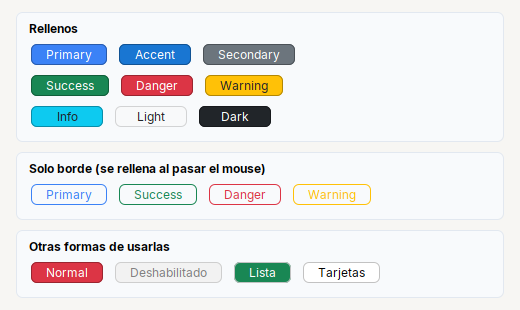
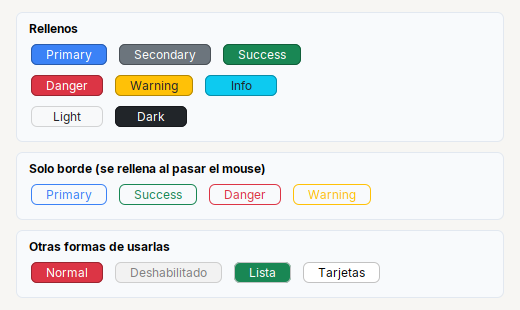
init

Changed region(s): [[0.0615, 0.1161, 0.5846, 0.4355]]

diff --git a/src/main/java/tessera/theme/Variant.java b/src/main/java/tessera/theme/Variant.java
@@ -15,14 +15,12 @@ import tessera.kit.Kit;
  * Theme.builder().variant(Variant.SUCCESS, "#2E7D32").install();    // cambiar un color para toda la app
  * </pre>
  *
- * {@link #PRIMARY} y {@link #ACCENT} siguen al tema ({@code Kit.PRIMARY} y {@code Theme.accent()}); el resto trae su color (el de Bootstrap) y se cambia con {@link #setColor(Color)}.
+ * {@link #PRIMARY} sigue al tema ({@code Kit.PRIMARY}); el resto trae su color (el de Bootstrap) y se cambia con {@link #setColor(Color)}.
  */
 public enum Variant {
 
   /** La accion principal (el {@code Kit.PRIMARY} del tema). */
   PRIMARY(null),
-  /** El color de acento del tema. */
-  ACCENT(null),
   /** Accion o texto de segundo plano: gris. */
   SECONDARY(Color.decode("#6C757D")),
   /** Todo salio bien: verde. */
@@ -61,8 +59,6 @@ public enum Variant {
     switch (this) {
       case PRIMARY:
         return Kit.PRIMARY;
-      case ACCENT:
-        return Theme.accent();
       default:
         return defaultColor;
     }

diff --git a/src/demo/java/tessera/demo/Showcase.java b/src/demo/java/tessera/demo/Showcase.java
@@ -155,7 +155,7 @@ public final class Showcase {
     return Scroll.of(Col.gap(10).padding(8, 0, 12, 0).children(
         Card.section("Botones y selectores").children(
             Row.gap(10).children(Button.of("Normal"), Button.primary("Principal"), Toggle.of("Lista"), Toggle.of("Tarjetas")),
-            Row.gap(8).children(Button.secondary("Secondary"), Button.accent("Accent"), Button.success("Success"), Button.danger("Danger"),
+            Row.gap(8).children(Button.secondary("Secondary"), Button.success("Success"), Button.danger("Danger"),
                 Button.warning("Warning"), Button.info("Info"), Button.light("Light"), Button.dark("Dark"), Button.outline(Variant.DANGER, "Outline")),
             Row.gap(18).children(Check.of("Casilla").selected(true), Switch.of("Interruptor").selected(true), Switch.of("Apagado")),
             Row.gap(10).children(Label.text("Elige una"), method, Label.text("Marca varias"), unzip,

diff --git a/src/demo/java/tessera/demo/WidgetExamples.java b/src/demo/java/tessera/demo/WidgetExamples.java
@@ -122,9 +122,9 @@ public final class WidgetExamples {
   private static JComponent buttonVariants() {
     // ejemplo:button-variants
     final Card solid = Card.section("Rellenos").children(
-        Row.gap(8).children(Button.primary("Primary"), Button.accent("Accent"), Button.secondary("Secondary")),
-        Row.gap(8).children(Button.success("Success"), Button.danger("Danger"), Button.warning("Warning")),
-        Row.gap(8).children(Button.info("Info"), Button.light("Light"), Button.dark("Dark")));
+        Row.gap(8).children(Button.primary("Primary"), Button.secondary("Secondary"), Button.success("Success")),
+        Row.gap(8).children(Button.danger("Danger"), Button.warning("Warning"), Button.info("Info")),
+        Row.gap(8).children(Button.light("Light"), Button.dark("Dark")));
 
     final Card outline = Card.section("Solo borde (se rellena al pasar el mouse)").children(
         Row.gap(8).children(

diff --git a/src/main/java/tessera/kit/Label.java b/src/main/java/tessera/kit/Label.java
@@ -19,7 +19,7 @@ import tessera.theme.Variant;
  * Label.text("Administra tus clientes").color(Kit.MUTED)
  * Label.field("Nombre:").tip("El nombre del cliente")
  * Label.text("Ayuda").icon("app/img/help_blue.svg", 16).onClick(this::openHelp)
- * Label.success("Guardado")        // tambien danger, warning, info, secondary, primary, accent, light, dark
+ * Label.success("Guardado")        // tambien danger, warning, info, secondary, primary, light, dark
  * Label.text("Quedan 2 dias").variant(Variant.WARNING)
  * </pre>
  */
@@ -56,10 +56,6 @@ public class Label extends JLabel implements Styled<Label> {
 
   public static Label primary(String text) {
     return of(Variant.PRIMARY, text);
-  }
-
-  public static Label accent(String text) {
-    return of(Variant.ACCENT, text);
   }
 
   public static Label secondary(String text) {

diff --git a/src/main/java/tessera/kit/Button.java b/src/main/java/tessera/kit/Button.java
@@ -46,11 +46,6 @@ public class Button extends JButton implements Clickable<Button> {
     return of(Variant.SECONDARY, text);
   }
 
-  /** Boton con el color de acento del tema. */
-  public static Button accent(String text) {
-    return of(Variant.ACCENT, text);
-  }
-
   /** Boton de confirmacion (verde). */
   public static Button success(String text) {
     return of(Variant.SUCCESS, text);

diff --git a/AGENTS.md b/AGENTS.md
@@ -24,7 +24,7 @@ tessera.components  modelos/renderers/bordes/validacion sueltos
 Theme.builder().accent("#1976D2").primary("#1976D2").panelBackground("#F7F6F3")
      .surface("#FFFFFF").cardLine("#E4E1D9").arc(12).install();
 ```
-**Variantes de color** (`tessera.theme.Variant`: `PRIMARY ACCENT SECONDARY SUCCESS DANGER WARNING INFO LIGHT DARK`, como Bootstrap): `PRIMARY/ACCENT` siguen al tema, el resto trae su color; se cambian con `.success("#2E7D32")`, `.danger(..)`, `.warning(..)`, `.info(..)`, `.secondary(..)`, `.light(..)`, `.dark(..)` o `.variant(Variant, color)` del builder. El texto sobre el color se elige solo (blanco u oscuro).
+**Variantes de color** (`tessera.theme.Variant`: `PRIMARY SECONDARY SUCCESS DANGER WARNING INFO LIGHT DARK`, como Bootstrap): `PRIMARY` sigue al tema, el resto trae su color; se cambian con `.success("#2E7D32")`, `.danger(..)`, `.warning(..)`, `.info(..)`, `.secondary(..)`, `.light(..)`, `.dark(..)` o `.variant(Variant, color)` del builder. El texto sobre el color se elige solo (blanco u oscuro).
 Fuente Inter empaquetada por defecto; `.font("Segoe UI")` usa una del sistema. `Theme.fontFamily()`, `Theme.accent()` para codigo propio. `arc` afecta botones, campos y barras, **no** a `Card` (fijo en 12). `accent` hoy no cambia el color de radios, casillas ni barras de progreso (workaround y detalle en docs/guides/customizing.md).
 Despues de `install()` la app ajusta lo suyo con `UIManager.put(...)`. La paleta del kit (`Kit.PRIMARY`, `Kit.SURFACE`, `Kit.CARD_LINE`, `Kit.DARK`,
 `Kit.ON_DARK`, `Kit.MUTED`, `Kit.LINE`, `Kit.ROW_ODD/ROW_EVEN/ROW_SELECTED`) son campos `static` no finales: se pueden asignar tambien a mano.
@@ -54,8 +54,8 @@ Todos son `JPanel` transparentes con MigLayout adentro (no hace falta saber MigL
 Extienden el de Swing (`JTextField txt = Input.text()...` sigue siendo un JTextField), con metodos encadenables.
 - **Todos (`Styled`)**: `.tip(txt)` `.bold()` `.fontSize(n)` `.font(f)` `.color(c)` `.background(c)` `.enabled(b)` `.visible(b)` `.name(s)` `.width(px)` `.height(px)`
 - **Botones y casillas (`Clickable`)**: `.onClick(Runnable|ActionListener)` `.icon(res, size)|.icon(Icon)` `.iconGap(n)` `.selected(b)`
-- `Label.text/title/field/muted(txt)` y por color `Label.primary/accent/secondary/success/danger/warning/info/light/dark(txt)` (+ `.variant(v)`; igual en `Hint` y `Toggle`) (+ `.icon .small() .center() .right() .padding(t,l,b,r) .onClick(Runnable)`) · `Hint.of(txt)` / `Hint.ofHtml(txt)` ayuda gris que se parte al ancho que reciba (`.width(px)` es solo el ancho que *pide*: en `Col`/`Card`/`Form`/`Row` se estira)
-- `Button.of(txt)` / `Button.primary(txt)` (+ `secondary accent success danger warning info light dark`, `Button.outline(Variant, txt)`, `.variant(v)`, `.outline(v)`) · `Check.of` · `Radio.of` (+ `Radio.group(...)`) · `Toggle.of` (+ `Toggle.group(...)`) · `Switch.of` interruptor estilo iOS
+- `Label.text/title/field/muted(txt)` y por color `Label.primary/secondary/success/danger/warning/info/light/dark(txt)` (+ `.variant(v)`; igual en `Hint` y `Toggle`) (+ `.icon .small() .center() .right() .padding(t,l,b,r) .onClick(Runnable)`) · `Hint.of(txt)` / `Hint.ofHtml(txt)` ayuda gris que se parte al ancho que reciba (`.width(px)` es solo el ancho que *pide*: en `Col`/`Card`/`Form`/`Row` se estira)
+- `Button.of(txt)` / `Button.primary(txt)` (+ `secondary success danger warning info light dark`, `Button.outline(Variant, txt)`, `.variant(v)`, `.outline(v)`) · `Check.of` · `Radio.of` (+ `Radio.group(...)`) · `Toggle.of` (+ `Toggle.group(...)`) · `Switch.of` interruptor estilo iOS
 - `Input.text()` / `Input.password()` / `Input.area(filas)` → `.placeholder(txt) .columns(n) .editable(b) .onChange(Runnable) .onEnter(listener)`; `TextArea.wrap()`
 - `Combo.of(items...)` / `Combo.empty()` → `.onChange .maxRows .editable` · `Spinner.integer(v,min,max,paso)` / `.decimal(...)` → `.onChange`
 - **Botones que abren un menu** (extienden `PopupButton`: `.color .arrowLeft .noArrow .icon(res,tam) .iconGap .menu()`): `ChoiceButton.<T>of()` elige **una** y el boton la muestra → `.placeholder .option(valor, texto[, ayuda]) .optionEnabled(valor, b[, ayuda]) .onChange(Consumer<T>|Runnable)`, `getValue() setValue(v) is(v) hasValue() getValueTip()` · `MultiChoiceButton.<T>of(texto)` marca **varias** → `.option .checked(v) .onChange(Consumer<Set<T>>|Runnable)`, `getValues() isChecked(v) setChecked(v,b) setValues(c)` · `MenuButton.of(texto)` **acciones**, no queda nada elegido → `.item(texto, accion) .item(MenuItem) .title .separator .clear .onOpen(Consumer<Menu>)`. Sin boton (clic derecho): `Menu.create().item(..).title(..).separator()` + `menu.show(comp, x, y)` / `menu.showBelow(comp)`; `MenuItem.of(texto, accion)` → `.icon .iconRight .padding .accelerator(KeyStroke) .onClick`, `MenuItem.title(texto)`. `Menu` y `MenuItem` chocan con `java.awt`: imports explicitos. Cual usar y ejemplos con imagenes: [docs/guides/menus.md](docs/guides/menus.md). Que widget elegir (Check/Switch/Toggle, Radio/Combo/ChoiceButton, Input/TextArea/Spinner...) y que widget avisa de un cambio hecho por codigo: [docs/guides/widgets.md](docs/guides/widgets.md)

diff --git a/docs/reference/kit/widgets/button.md b/docs/reference/kit/widgets/button.md
@@ -59,17 +59,17 @@ Ademas los de [`Styled`](../README.md#styledt--todos-los-widgets-y-contenedores)
 
 ### Variantes de color (como Bootstrap)
 
-`Button.secondary / accent / success / danger / warning / info / light / dark(txt)`, `Button.of(Variant, txt)` y `Button.outline(Variant, txt)` (solo borde; se rellena al pasar el mouse).
-El texto va blanco, u oscuro si el color es claro (amarillo, celeste). `primary` y `accent` siguen al tema; los demas se cambian con
+`Button.secondary / success / danger / warning / info / light / dark(txt)`, `Button.of(Variant, txt)` y `Button.outline(Variant, txt)` (solo borde; se rellena al pasar el mouse).
+El texto va blanco, u oscuro si el color es claro (amarillo, celeste). `primary` sigue al tema; los demas se cambian con
 `Theme.builder().success("#2E7D32").danger("#C62828")...` (ver [Theme](../../theme/theme.md)).
 
 ![Button: rellenos, solo borde, variant() y Toggle.variant](../../../img/example-button-variants.png)
 
 ```java
 final Card solid = Card.section("Rellenos").children(
-    Row.gap(8).children(Button.primary("Primary"), Button.accent("Accent"), Button.secondary("Secondary")),
-    Row.gap(8).children(Button.success("Success"), Button.danger("Danger"), Button.warning("Warning")),
-    Row.gap(8).children(Button.info("Info"), Button.light("Light"), Button.dark("Dark")));
+    Row.gap(8).children(Button.primary("Primary"), Button.secondary("Secondary"), Button.success("Success")),
+    Row.gap(8).children(Button.danger("Danger"), Button.warning("Warning"), Button.info("Info")),
+    Row.gap(8).children(Button.light("Light"), Button.dark("Dark")));
 
 final Card outline = Card.section("Solo borde (se rellena al pasar el mouse)").children(
     Row.gap(8).children(
@@ -83,7 +83,7 @@ final Card others = Card.section("Otras formas de usarlas").children(
         Toggle.of("Lista").variant(Variant.SUCCESS).selected(true), // presionado se pinta de verde
         Toggle.of("Tarjetas")));
 ```
-`import tessera.theme.Variant;`. Sin tema propio, `primary` es `Kit.PRIMARY` y `accent` el de `Theme`; los demas son los de Bootstrap (se cambian en [Theme](../../theme/theme.md)).
+`import tessera.theme.Variant;`. Sin tema propio, `primary` es `Kit.PRIMARY`; los demas son los de Bootstrap (se cambian en [Theme](../../theme/theme.md)).
 
 | Para... | Hacer |
 |---|---|

diff --git a/CHANGELOG.md b/CHANGELOG.md
@@ -7,7 +7,7 @@ Los cambios importantes de Tessera. Formato basado en [Keep a Changelog](https:/
 
 ### Agregado
 
-- **Variantes de color como Bootstrap** (`tessera.theme.Variant`: `PRIMARY ACCENT SECONDARY SUCCESS DANGER WARNING INFO LIGHT DARK`): `Button.success("Aprobar")`, `Button.danger(..)`, `Button.outline(Variant.DANGER, "Eliminar")` (solo borde, se rellena al pasar el mouse), `Label.warning(..)`, `.variant(v)` en `Button`, `Toggle` (color al estar presionado), `Label` y `Hint`. El texto sobre el color se elige solo (oscuro en amarillo y celeste). `PRIMARY` y `ACCENT` siguen al tema; el resto se cambia con `Theme.builder().success("#2E7D32").danger(..).warning(..).info(..).secondary(..).light(..).dark(..)` o `.variant(Variant, color)`. `Kit.makeVariant` y `Kit.makeOutline` para un boton ya creado.
+- **Variantes de color como Bootstrap** (`tessera.theme.Variant`: `PRIMARY SECONDARY SUCCESS DANGER WARNING INFO LIGHT DARK`): `Button.success("Aprobar")`, `Button.danger(..)`, `Button.outline(Variant.DANGER, "Eliminar")` (solo borde, se rellena al pasar el mouse), `Label.warning(..)`, `.variant(v)` en `Button`, `Toggle` (color al estar presionado), `Label` y `Hint`. El texto sobre el color se elige solo (oscuro en amarillo y celeste). `PRIMARY` sigue al tema; el resto se cambia con `Theme.builder().success("#2E7D32").danger(..).warning(..).info(..).secondary(..).light(..).dark(..)` o `.variant(Variant, color)`. `Kit.makeVariant` y `Kit.makeOutline` para un boton ya creado.
 - **`Theme.builder()` acepta `Color` ademas de texto** en `primary`, `surface`, `cardLine` y `panelBackground` (como ya hacia `accent`): `Theme.builder().primary(MI_AZUL).panelBackground(PANEL_BACKGROUND)` reutiliza las constantes `Color` de la app en vez de repetir el hexadecimal. La version con `String` sigue igual.
 - **`@Preview` y `Previewer`** (`tessera.app`): ver una pantalla en su propia ventana mientras se arma, sin arrancar la app. `@Preview` en la clase (o en metodos estaticos con datos de muestra) y un `main` de una linea; F5 la recrea. Ver [preview.md](docs/reference/app/preview.md).
 - **Botones que abren un menu** (`tessera.kit`), uno por cada cosa que se quiere hacer, con una base comun (`PopupButton`: flecha, color, abrir debajo del boton):

diff --git a/docs/reference/theme/theme.md b/docs/reference/theme/theme.md
@@ -53,8 +53,8 @@ Los metodos devuelven el `Builder`, asi que se encadenan; solo `install()` cierr
 
 ### Variantes de color
 
-`tessera.theme.Variant` (`PRIMARY ACCENT SECONDARY SUCCESS DANGER WARNING INFO LIGHT DARK`) son los colores semanticos que usan `Button`, `Toggle`, `Label` y `Hint`
-(`Button.danger(..)`, `Label.success(..)`, `.variant(v)`). `PRIMARY` sigue a `primary(...)`, y `ACCENT` a `accent(...)`; los demas traen los colores de Bootstrap.
+`tessera.theme.Variant` (`PRIMARY SECONDARY SUCCESS DANGER WARNING INFO LIGHT DARK`) son los colores semanticos que usan `Button`, `Toggle`, `Label` y `Hint`
+(`Button.danger(..)`, `Label.success(..)`, `.variant(v)`). `PRIMARY` sigue a `primary(...)`; los demas traen los colores de Bootstrap.
 `Variant.X.color()`, `.onColor()` (texto que contrasta), `.hover()` y `.pressed()` sirven para codigo propio, y `Variant.X.setColor(c)` cambia uno en cualquier momento (antes de crear las ventanas).
 
 ```java

diff --git a/docs/reference/kit/widgets/label.md b/docs/reference/kit/widgets/label.md
@@ -52,7 +52,7 @@ Etiqueta de texto (`JLabel`).
 | `Label.title(txt)` | titulo: negrita, 18 |
 | `Label.field(txt)` | nombre de un campo: negrita, 15 |
 | `Label.muted(txt)` | texto secundario: gris (`Kit.MUTED`) |
-| `Label.primary / accent / secondary / success / danger / warning / info / light / dark(txt)` | texto del color de esa [`Variant`](../../theme/theme.md) (como Bootstrap) |
+| `Label.primary / secondary / success / danger / warning / info / light / dark(txt)` | texto del color de esa [`Variant`](../../theme/theme.md) (como Bootstrap) |
 
 ### Ejemplo: variantes de color
 
